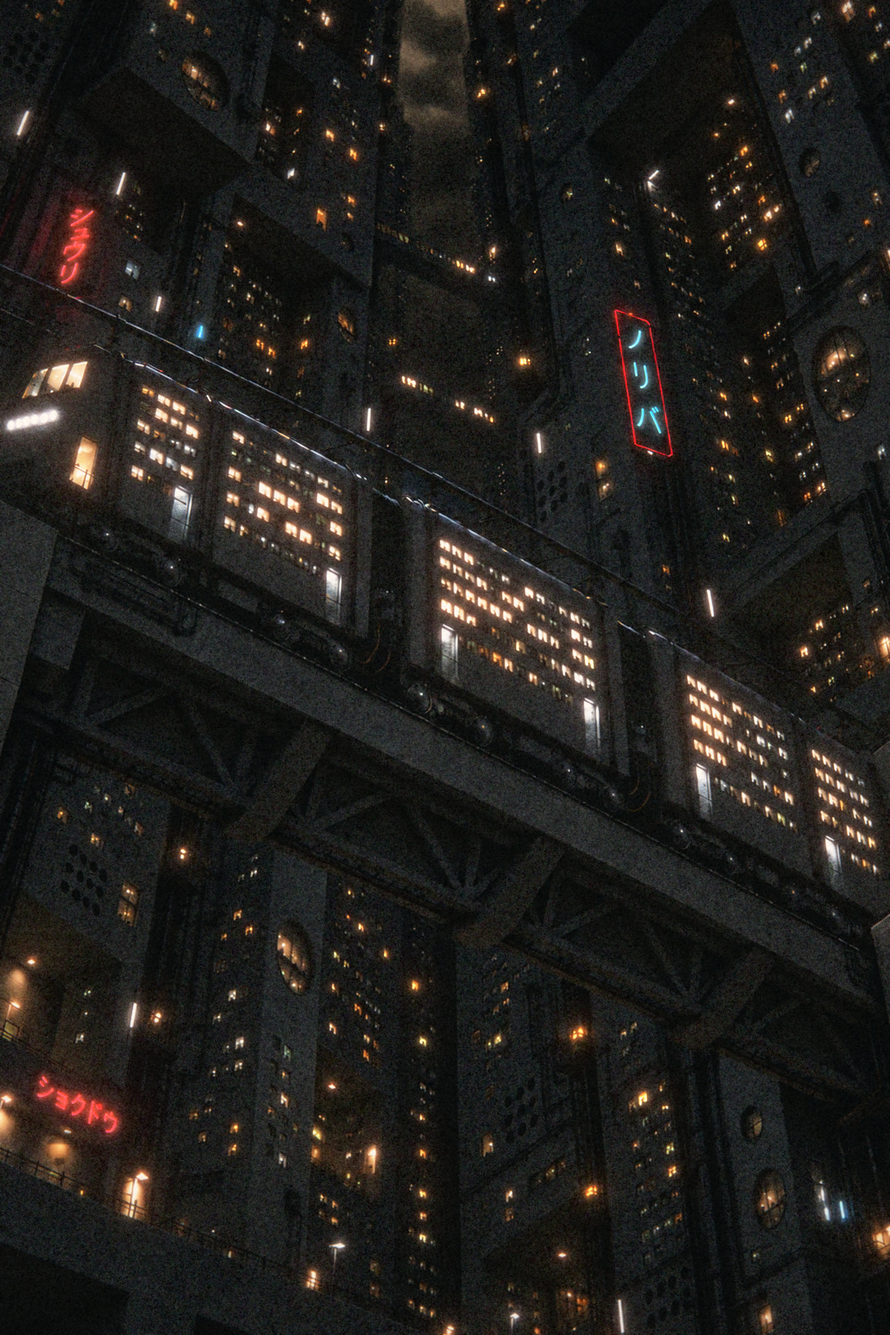
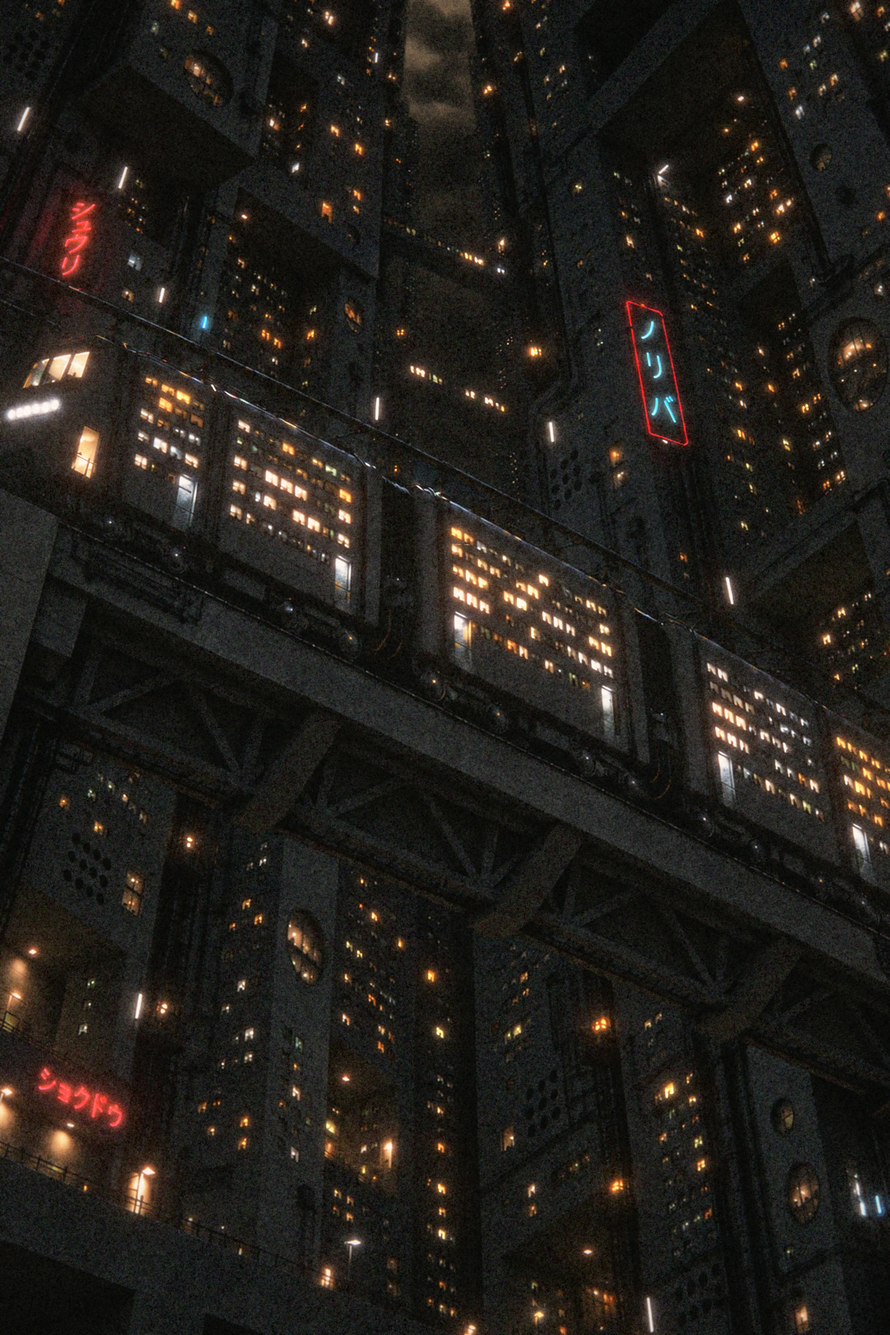
Night render: fixes from the final review
Windows: room details (blinds, furniture or a person on the sill, light
gradients) only on grouped, window-sized shapes, so isolated lamps and
the soft lamp pool by the ショクドウ sign stay clean. Light the render's
repeated sill notch in about half the rooms, filling only pixels the
window's light encloses. Clipped train windows now get room details too.
Light type shared per train or building cluster; brightness, blinds and
occupants stay per window. Gains spread by normalized convolution so
dimmed windows don't keep a bright rim. Thin strips are left alone and
the render's roof rim light is broken up and dimmed.

Frame narrowed at the bottom right: stronger convergence, and the near
right pillar is fully out of frame. Faint warm skyglow haze on the
towers beside the sky; shadows nudged from cyan toward neutral-green;
per-channel floor now asymptotic at about 2/255.

The dusk renders are unchanged byte for byte.

Claude-Session: https://claude.ai/code/session_01SqXggeUc2DgCZQ69KiA2Kp

diff --git a/night_lights.py b/night_lights.py
@@ -122,16 +122,34 @@ def vary_windows(rgb):
 
     # Windows close together (a train carriage, an office floor) share one
     # lighting system: group them through a wider dilation.
-    groups = _label_components(gaussian_blur(seed.astype(np.float32), 6) > 0.15)
+    groups = _label_components(gaussian_blur(seed.astype(np.float32), 8) > 0.15)
     grp = np.zeros(n, dtype=np.int64)
     grp[inv] = groups[ys, xs]
     _, grp_inv, members = np.unique(grp, return_inverse=True, return_counts=True)
-    grouped = members[grp_inv] >= 8
-    own = draw(6) < 0.1  # the odd room on its own lamp
+    members = members[grp_inv]
+    grouped = members >= 8
+    own = (draw(6) < 0.1) & (members < 30)  # the odd room on its own lamp
 
-    # Light type. Thin bars are tubes: fluorescent or cold LED only.
+    # What is not a window keeps its own light: clipped point emitters
+    # (lamps, headlights) and big clipped glows, tiny points, thin strips,
+    # specular rims along edges, and soft pools of lamp light on walls.
+    fill = area / (tall * wide)
     tube = (np.maximum(tall, wide) > 3 * np.minimum(tall, wide)) & (area < 600)
-    pick = np.where(grouped & ~own, _hash01(grp, 1), draw(1))
+    rim = (fill < 0.35) & ~tube
+    thin = (np.minimum(tall, wide) <= 4) & ~tube
+    pool = (area > 1500) & (peak < 0.8)
+    clipped_lamp = (peak > 0.9) & (~grouped | (area >= 1200))
+    fixed = clipped_lamp | (area < 60) | rim | thin | pool
+    # Rooms come in arrays: room details only on grouped, window-sized shapes.
+    room = grouped & (area > 120) & (area < 1200) & ~tube & ~fixed
+
+    # Light type, shared more widely than the grouping above: one train, or
+    # one building's cluster of floors, has one lighting system.
+    sys_map = _label_components(gaussian_blur(seed.astype(np.float32), 14) > 0.15)
+    system = np.zeros(n, dtype=np.int64)
+    system[inv] = sys_map[ys, xs]
+    # Thin bars are tubes: fluorescent or cold LED only.
+    pick = np.where(grouped & ~own, _hash01(system, 1), draw(1))
     pick = np.where(tube, TUBE_PICK + (1 - TUBE_PICK) * draw(1), pick)
     tint = np.ones((n, 3), dtype=np.float32)
     edge = 0.0
@@ -145,33 +163,74 @@ def vary_windows(rgb):
     level = np.where(tail < 0.08, level * 1.6, level)  # a few blazing
     level = np.where((tail > 0.88) & (area > 150), level * 0.45, level)  # curtains
     level = np.where((tail > 0.80) & (tail <= 0.88) & (area > 150), level * 0.18, level)  # nearly off
-    blind = (draw(4) < 0.3) & (area > 120) & ~tube
-    blind_to = y0 + (0.2 + 0.4 * draw(5)) * tall  # blind pulled down to here
-    # Clipped emitters (lamps, headlights), tiny points and thin non-window
-    # shapes (specular rims along edges) stay as they are.
-    fill = area / (tall * wide)
-    fixed = (peak > 0.9) | (area < 60) | ((fill < 0.35) & ~tube)
+
+    # The render repeats one interior in every window (a dark notch on the
+    # sill). Light the notch in about half the rooms, as an open room would.
+    rgb = rgb.copy()
+    lit_sum = np.zeros((n, 3))
+    np.add.at(lit_sum, inv, rgb[inside])
+    lit_mean = lit_sum / area[:, None]
+    mean_L = lit_mean @ LUMA
+    for i in np.nonzero(room & (draw(13) < 0.5))[0]:
+        ya, yb, xa, xb = y0[i] + 3, y1[i] - 2, x0[i] + 3, x1[i] - 2
+        if yb <= ya or xb <= xa:
+            continue
+        block = rgb[ya:yb, xa:xb]
+        lit = (block @ LUMA) >= 0.55 * mean_L[i]
+        # The notch is enclosed by the window's light on the left, right and
+        # top; the wall around the window and gaps between windows are not.
+        enclosed = (
+            np.maximum.accumulate(lit, axis=1)
+            & np.maximum.accumulate(lit[:, ::-1], axis=1)[:, ::-1]
+            & np.maximum.accumulate(lit, axis=0)
+        )
+        block[enclosed & ~lit] = lit_mean[i] * (0.6 + 0.3 * draw(14)[i])
 
     g = tint[inv] * level[inv][:, None]
+    blind = room & (draw(4) < 0.3)
+    blind_to = y0 + (0.2 + 0.4 * draw(5)) * tall  # blind pulled down to here
     g[blind[inv] & (ys < blind_to[inv])] *= 0.45
-    # Something in the room (furniture, a person) blocks part of the light:
-    # a dark shape standing on the sill, different in every window.
-    occl = (draw(7) < 0.55) & (area > 150) & ~tube
-    occl_w = (0.3 + 0.3 * draw(8)) * wide
-    occl_top = y1 - (0.2 + 0.25 * draw(9)) * tall
+    # Something in the room blocks part of the light: furniture on the sill
+    # (a block) or a person (head and shoulders), different in every window.
+    occl = room & (draw(7) < 0.6)
+    person = draw(15) < 0.5
+    occl_w = np.where(person, 0.35 + 0.2 * draw(8), 0.3 + 0.3 * draw(8)) * wide
+    occl_h = np.where(person, 0.4 + 0.2 * draw(9), 0.2 + 0.25 * draw(9)) * tall
     occl_x0 = x0 + draw(10) * (wide - occl_w)
-    hit = occl[inv] & (ys > occl_top[inv]) & (xs >= occl_x0[inv]) & (xs < (occl_x0 + occl_w)[inv])
-    g[hit] *= (0.4 + 0.3 * draw(11))[inv][hit][:, None]
+    occl_top = y1 - occl_h
+    dx = (xs - (occl_x0 + occl_w / 2)[inv]) / (occl_w[inv] / 2)
+    dy = (ys - occl_top[inv]) / occl_h[inv]
+    in_box = (np.abs(dx) < 1) & (dy > 0)
+    shoulders = dy > 0.45
+    head = ((dx / 0.45) ** 2 + ((dy - 0.25) / 0.22) ** 2) < 1
+    shape = np.where(person[inv], (shoulders & in_box) | head, in_box)
+    hit = occl[inv] & shape
+    dim = np.where(person, 0.3 + 0.2 * draw(11), 0.4 + 0.3 * draw(11))
+    g[hit] *= dim[inv][hit][:, None]
     # Light falls off across each room differently.
-    slope = 0.35 * (draw(12) * 2 - 1)
+    slope = np.where(room, 0.35 * (draw(12) * 2 - 1), 0.0)
     g *= (1 + slope[inv] * (ys - (y0 + y1)[inv] / 2) / tall[inv])[:, None]
     g[fixed[inv]] = 1.0
-    gain = np.ones_like(rgb)
-    gain[inside] = g
+    # Specular rims are the render's rim light: break them up and dim them,
+    # as reflected interior light would be.
+    breakup = gaussian_blur(np.random.default_rng(11).standard_normal((h, w)).astype(np.float32), 25)
+    breakup = 0.675 + 0.325 * np.clip(breakup / breakup.std(), -1, 1)
+    on_rim = rim[inv]
+    g[on_rim] = (0.75 * breakup[ys[on_rim], xs[on_rim]])[:, None]
 
-    # Apply across the whole lit window, feathered at its edges.
-    amount = gaussian_blur((inside & (L > 0.08)).astype(np.float32), 1.2)[..., None]
-    gain = gaussian_blur(gain, 1.5)
+    # Spread each window's gain a few pixels past its label by normalized
+    # convolution, so a dimmed window takes its own darkness right to the
+    # edge of its glow instead of keeping a bright rim.
+    m = inside.astype(np.float32)
+    field = np.zeros_like(rgb)
+    field[inside] = g
+    num = gaussian_blur(field, 1.5)
+    den = gaussian_blur(m, 1.5)[..., None]
+    reach = gaussian_blur(m, 2.0) > 0.1
+    gain = np.where(den > 0.02, num / np.maximum(den, 0.02), 1.0)
+    gain[~reach] = 1.0
+    L = rgb @ LUMA  # after the notch fill
+    amount = gaussian_blur((reach & (L > 0.08)).astype(np.float32), 1.2)[..., None]
     return rgb * (1 - amount) + rgb * gain * amount
 
 
@@ -216,8 +275,15 @@ def grade_sky(rgb):
     # Brightest at the top of the gap. Deeper into the canyon the sky shows
     # only as narrow slots between bridges, a little above the towers.
     glow = 2.2 - 1.0 * np.clip((rows - 0.1 * h) / (0.25 * h), 0, 1)
-    murk = np.array([1.22, 1.0, 0.78], np.float32) * (clouds * glow)[..., None]
-    return rgb * (1 - sky) + murk * sky, sky[..., 0]
+    hue = np.array([1.22, 1.0, 0.78], np.float32)
+    murk = hue * (clouds * glow)[..., None]
+    out = rgb * (1 - sky) + murk * sky
+    # Skyglow scattered in the canyon air: a faint warm haze on the towers
+    # nearest the open sky, fading with distance from it.
+    haze = gaussian_blur(sky[..., 0], 120)
+    haze = haze / max(float(haze.max()), 1e-6)
+    out = out + (0.012 * haze * (1 - sky[..., 0]))[..., None] * hue
+    return out, sky[..., 0]
 
 
 def prepare_night(rgb):

diff --git a/film_emulation.py b/film_emulation.py
@@ -51,11 +51,11 @@ PROFILES = {
         # Frame shifted left so the train nose and the ショクドウ sign stay in,
         # with the extra keystone taken on the right, where it also drops the
         # near pillar cleanly instead of leaving a sliver of it.
-        frame=((0.0, 0.0), (1.0, 0.0), (0.90, 1.0), (0.01706, 1.0)),
+        frame=((0.0, 0.0), (0.99, 0.0), (0.86, 1.0), (0.01706, 1.0)),
         soften=0.3, scan_sharpen=(0.3, 1.2),
         shadow_gamma=1.06, black=0.036, white=0.97,
         sat=0.86, warm_sat=0.14,
-        shadow_tone=(-0.008, 0.006, 0.004), highlight_tone=(0.03, 0.008, -0.025),
+        shadow_tone=(-0.003, 0.006, -0.002), highlight_tone=(0.03, 0.008, -0.025),
         grain=0.022, grain_centre=0.2, chroma_grain=0.006,
         grain_sigma=(0.9, 2.2), grain_floor_taper=True, chroma_shadow=True,
         chroma_sigma=2.6, soft_floor=True,
@@ -313,9 +313,9 @@ def main(src_path, out_path, weather=True, profile="dusk"):
 
     if P.get("soft_floor"):
         # Per-channel soft floor: a single dye layer can't reach zero while
-        # the others sit well above the scan's black.
+        # the others sit well above the scan's black. Bottoms out at f / 2.
         f = 0.5 * P["black"]
-        v = np.where(v < f, f * np.exp((np.minimum(v, f) - f) / f), v)
+        v = np.where(v < f, f * (0.5 + 0.5 * np.exp((np.minimum(v, f) - f) / (0.5 * f))), v)
     out = (np.clip(v, 0, 1) * 255 + 0.5).astype(np.uint8)
     Image.fromarray(out).save(out_path, quality=94, subsampling=0)
     print(f"wrote {out_path} ({ow}x{oh})")
